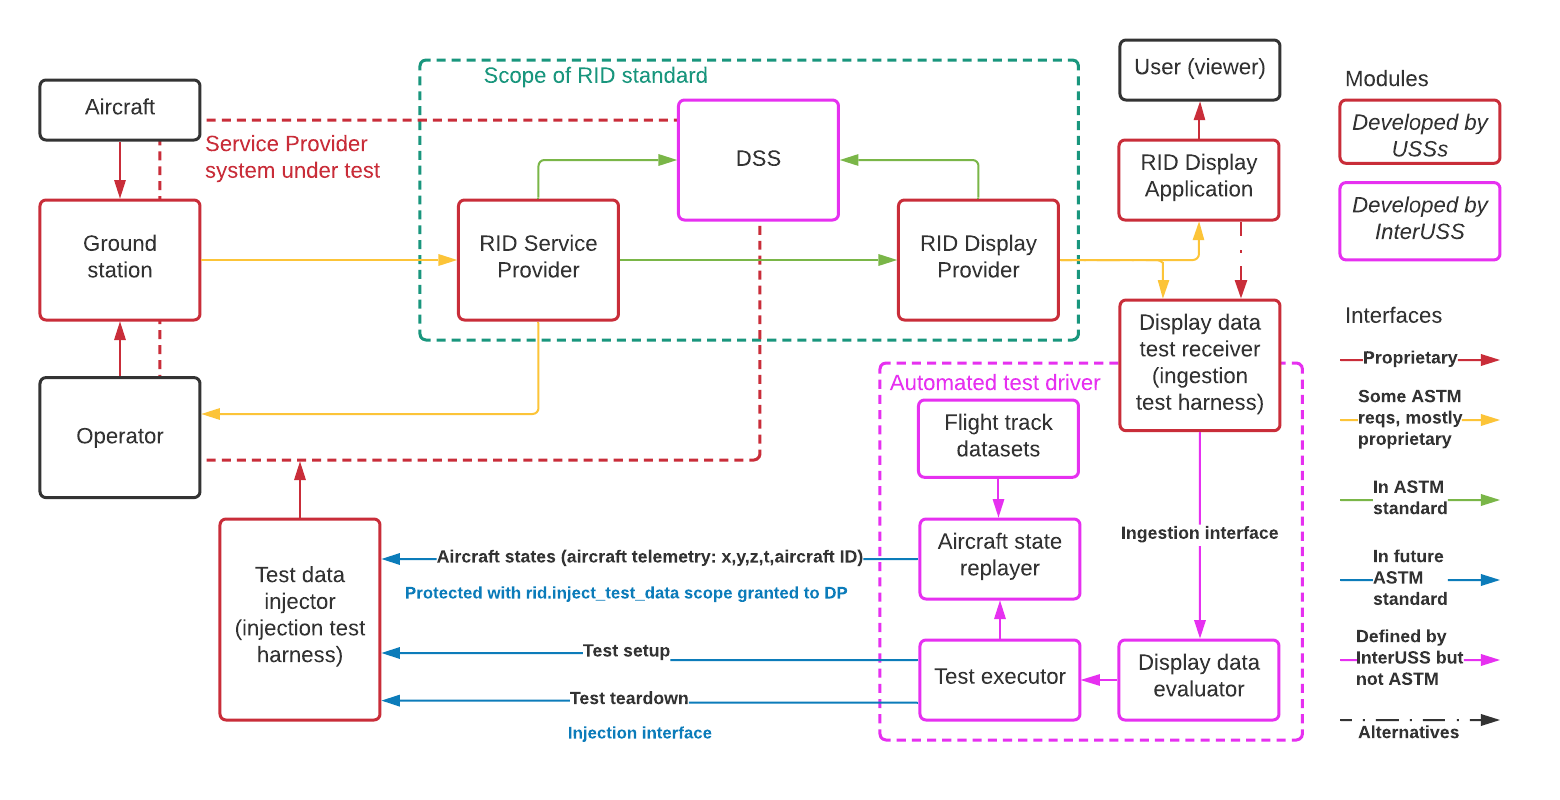
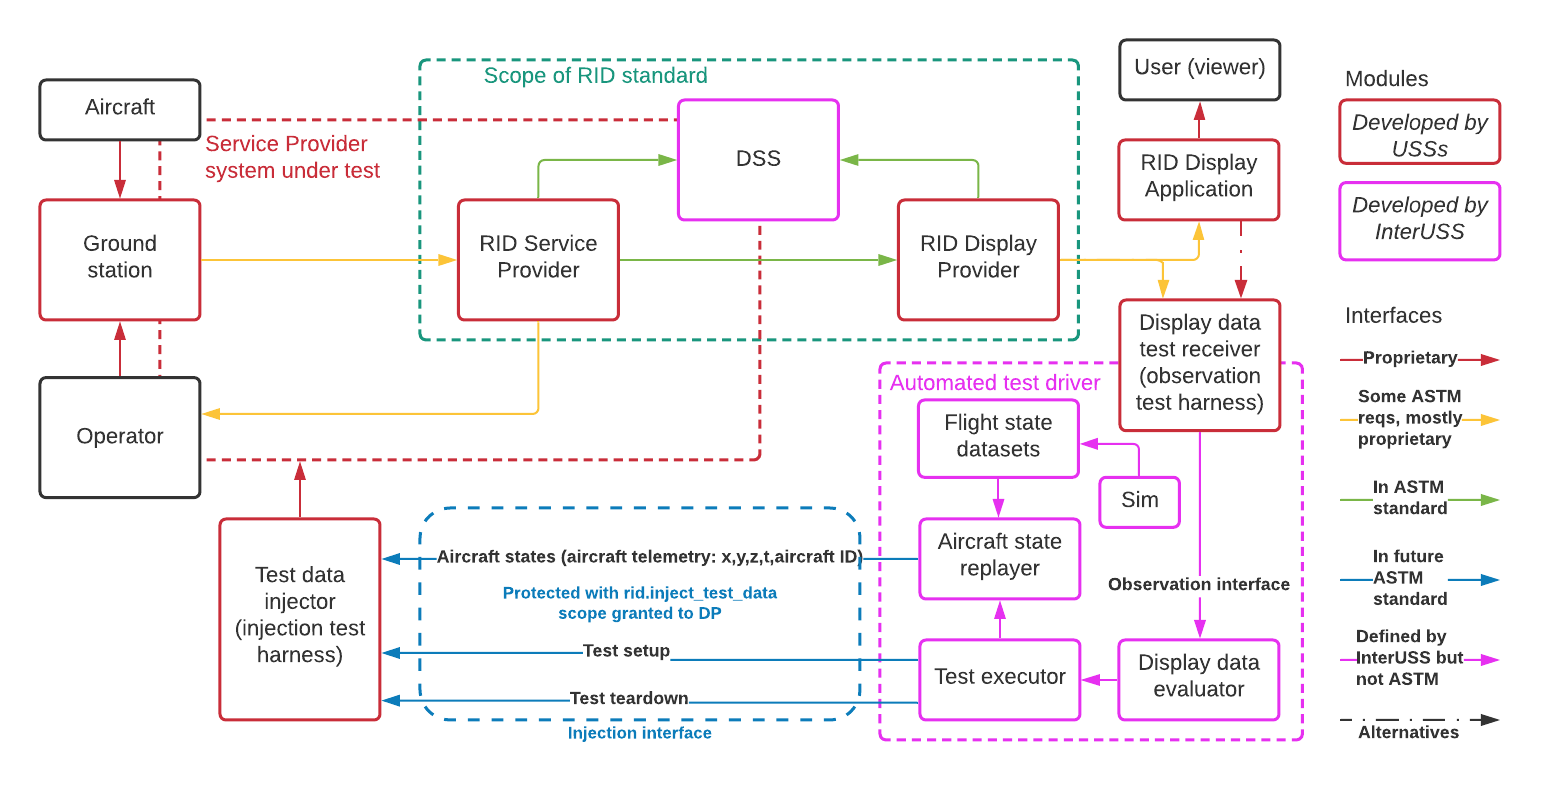
Rename "ingestion" to "observation" in RID automated testing

diff --git a/monitoring/rid_qualifier/mock/routes.py b/monitoring/rid_qualifier/mock/routes.py
@@ -115,7 +115,7 @@ def _make_api_flight(flight: api.TestFlight,
 
 @webapp.route('/dp/display_data', methods=['GET'])
 def poll_display_data() -> Tuple[str, int]:
-  """Implements display data polling in RID automated testing ingestion API."""
+  """Implements display data polling in RID automated testing observation API."""
 
   # TODO: Validate token signature & scope
 
@@ -165,7 +165,7 @@ def poll_display_data() -> Tuple[str, int]:
 
 @webapp.route('/dp/display_data/<id>', methods=['GET'])
 def display_data_details(id: str) -> Tuple[str, int]:
-  """Implements display data details in RID automated testing ingestion API."""
+  """Implements display data details in RID automated testing observation API."""
 
   # TODO: Validate token signature & scope
 

diff --git a/monitoring/rid_qualifier/mock/README.md b/monitoring/rid_qualifier/mock/README.md
@@ -7,7 +7,7 @@ implicit DSS, and a USS acting as a Remote ID Display Provider, for the purpose
 of testing `rid_qualifier`.  Once this system is running, `rid_qualifier` can
 inject data into one or more virtual RID Service Providers supporting the
 injection API and then observe the instantaneous state of the RID system via a
-virtual RID Display Provider supporting the ingestion API. 
+virtual RID Display Provider supporting the observation API. 
 
 ## Execution
 
@@ -19,9 +19,9 @@ listening at localhost:8070.  Press CTRL/CMD-C to stop the system mock.
 
 ### RID Service Providers
 This mock supports any number of RID Service Providers, and they do not need to
-be declared before use.  The RID Service Provider named `<RIDSP>` implements the
+be declared before use.  The RID Service Provider named `RIDSP` implements the
 [injection API](../../../interfaces/automated-testing/rid/README.md) at
-http://hostname/sp/<RIDSP>.  So, for instance, if an instance of this RID system
+`http://hostname/sp/RIDSP`.  So, for instance, if an instance of this RID system
 mock is accessible at localhost:8070, then data can be injected into the `uss1`
 virtual RID Service Provider by making a PUT call to, e.g.,
 http://localhost:8070/sp/uss1/tests/9a20678b-fad4-49e6-9009-b4891aa77cb7.
@@ -29,9 +29,9 @@ http://localhost:8070/sp/uss1/tests/9a20678b-fad4-49e6-9009-b4891aa77cb7.
 ### RID Display Provider
 This mock implements a single virtual RID Display Provider.  This Display
 Provider implements the
-[ingestion API](../../../interfaces/automated-testing/rid/README.md) at
-http://hostname/dp.  So, for instance, if an instance of this RID system mock is
-accessible at localhost:8070, then the current flights visible to the virtual
+[observation API](../../../interfaces/automated-testing/rid) at
+`http://hostname/dp`.  So, for instance, if an instance of this RID system mock
+is accessible at localhost:8070, then the current flights visible to the virtual
 Display Provider can be queried by making a GET call to
 http://localhost:8070/dp/display_data.
 
@@ -50,8 +50,8 @@ send requests.  "Get status" indicates whether the system is running and
 properly handling basic requests.  The "Injection" folder enables the injection
 of a test with one simple ~5-minute flight with telemetry approximately once a
 minute (and the deletion of that test).  After that test has been injected, the
-"Ingestion" folder enables querying the apparent state of the virtual RID system
-provided by the mock.  "Get display data (tight)" returns flights visible in a
-small area.  "Get display data (loose)" intentionally requests a view that is
-too large.  "Get display data (clusters)" requests a view larger than a detailed
-view but small enough to be valid.
+"Observation" folder enables querying the apparent state of the virtual RID
+system provided by the mock.  "Get display data (tight)" returns flights visible
+in a small area.  "Get display data (loose)" intentionally requests a view that
+is too large.  "Get display data (clusters)" requests a view larger than a
+detailed view but small enough to be valid.

diff --git a/interfaces/automated-testing/rid/README.md b/interfaces/automated-testing/rid/README.md
@@ -7,7 +7,7 @@ To view these YAML files locally:
 
 ```shell script
 docker run -it --rm -p 8080:8080 \
-  -v $(pwd)/ingestion.yaml:/usr/share/nginx/html/swagger.yaml \
+  -v $(pwd)/observation.yaml:/usr/share/nginx/html/swagger.yaml \
   -e PORT=8080 -e SPEC_URL=swagger.yaml redocly/redoc
 ```
 
@@ -41,14 +41,14 @@ be injected into their system in whichever manner was most appropriate
 follow as possible).
 
 Meanwhile, the automated test driver would poll a **display data test
-receiver** implemented by a Display Provider to ingest the remote ID
+receiver** implemented by a Display Provider to observe the remote ID
 information currently available in the whole remote ID system under test.  A
 Display Provider USS wishing to run the automated testing system built with the
 interfaces in this folder would implement a display data test receiver tailored
 to their individual system.  This display data test receiver would collect all
 remote ID information available in a requested area, at the level of the Display
 Application, and provide that information to the automated test driver via the
-ingestion interface defined in this folder.
+observation interface defined in this folder.
 
 The automated test driver would perform a test by injecting test data into each
 participating Service Provider, polling the resulting information from the
